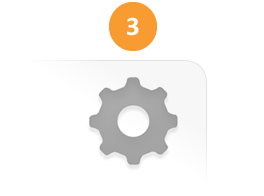
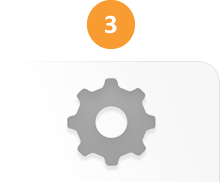
WEB-2528 - use new centered images. - add padding below title.

diff --git a/fid-web/src/main/webapp/style/dashboard/dashboard.css b/fid-web/src/main/webapp/style/dashboard/dashboard.css
@@ -178,7 +178,7 @@ div.buttonsLabel {
 }
 
 .blank-slate .header { 
-	padding:20px 0px;
+	padding:20px 0px 30px 0px;
 	font-size:22px;
 	font-weight:bold;
 }
